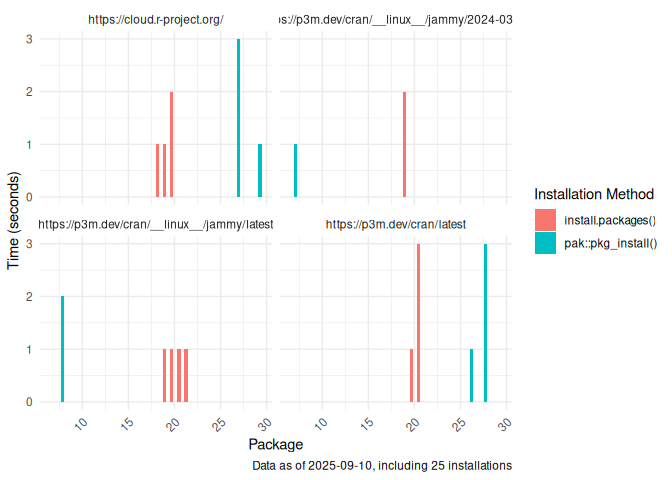
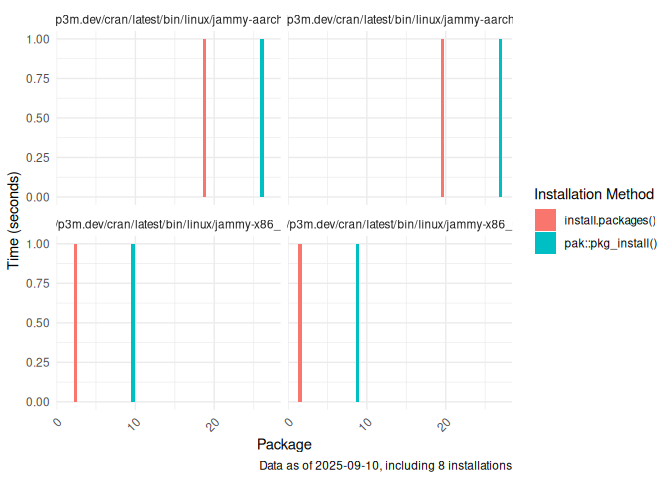
Add package installation summary

diff --git a/README.md b/README.md
@@ -15,21 +15,21 @@ and saves the output as csv files under [data](./data).
 
 The following table shows the distribution of the installations so far:
 
-|                                                 | binary | source |
-|:------------------------------------------------|-------:|-------:|
-| https://cloud.r-project.org/                    |      0 |      4 |
-| https://p3m.dev/cran/**linux**/jammy/2024-03-31 |      1 |      0 |
-| https://p3m.dev/cran/**linux**/jammy/latest     |      2 |      0 |
-| https://p3m.dev/cran/latest                     |      0 |      4 |
+|                                                         | source |
+|:--------------------------------------------------------|-------:|
+| https://p3m.dev/cran/latest/bin/linux/jammy-aarch64/4.4 |      1 |
+| https://p3m.dev/cran/latest/bin/linux/jammy-aarch64/4.5 |      1 |
+| https://p3m.dev/cran/latest/bin/linux/jammy-x86_64/4.4  |      1 |
+| https://p3m.dev/cran/latest/bin/linux/jammy-x86_64/4.5  |      1 |
 
 Using pak::pkg_install()
 
-|                                                 | source |
-|:------------------------------------------------|-------:|
-| https://cloud.r-project.org/                    |      4 |
-| https://p3m.dev/cran/**linux**/jammy/2024-03-31 |      2 |
-| https://p3m.dev/cran/**linux**/jammy/latest     |      4 |
-| https://p3m.dev/cran/latest                     |      4 |
+|                                                         | binary | source |
+|:--------------------------------------------------------|-------:|-------:|
+| https://p3m.dev/cran/latest/bin/linux/jammy-aarch64/4.4 |      0 |      1 |
+| https://p3m.dev/cran/latest/bin/linux/jammy-aarch64/4.5 |      0 |      1 |
+| https://p3m.dev/cran/latest/bin/linux/jammy-x86_64/4.4  |      1 |      0 |
+| https://p3m.dev/cran/latest/bin/linux/jammy-x86_64/4.5  |      1 |      0 |
 
 Using install.packages()
 
